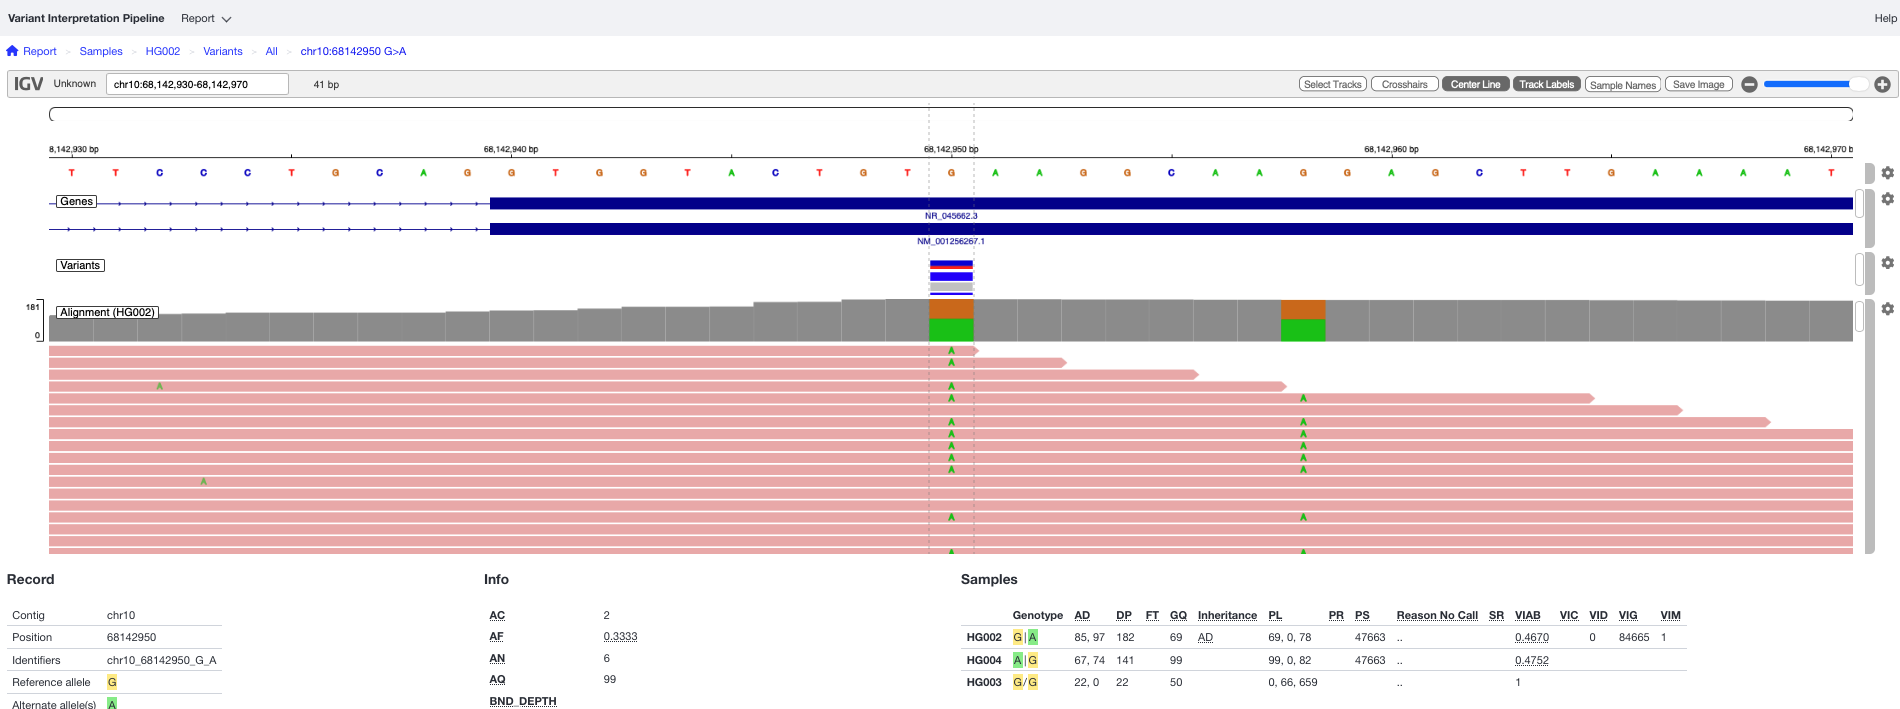
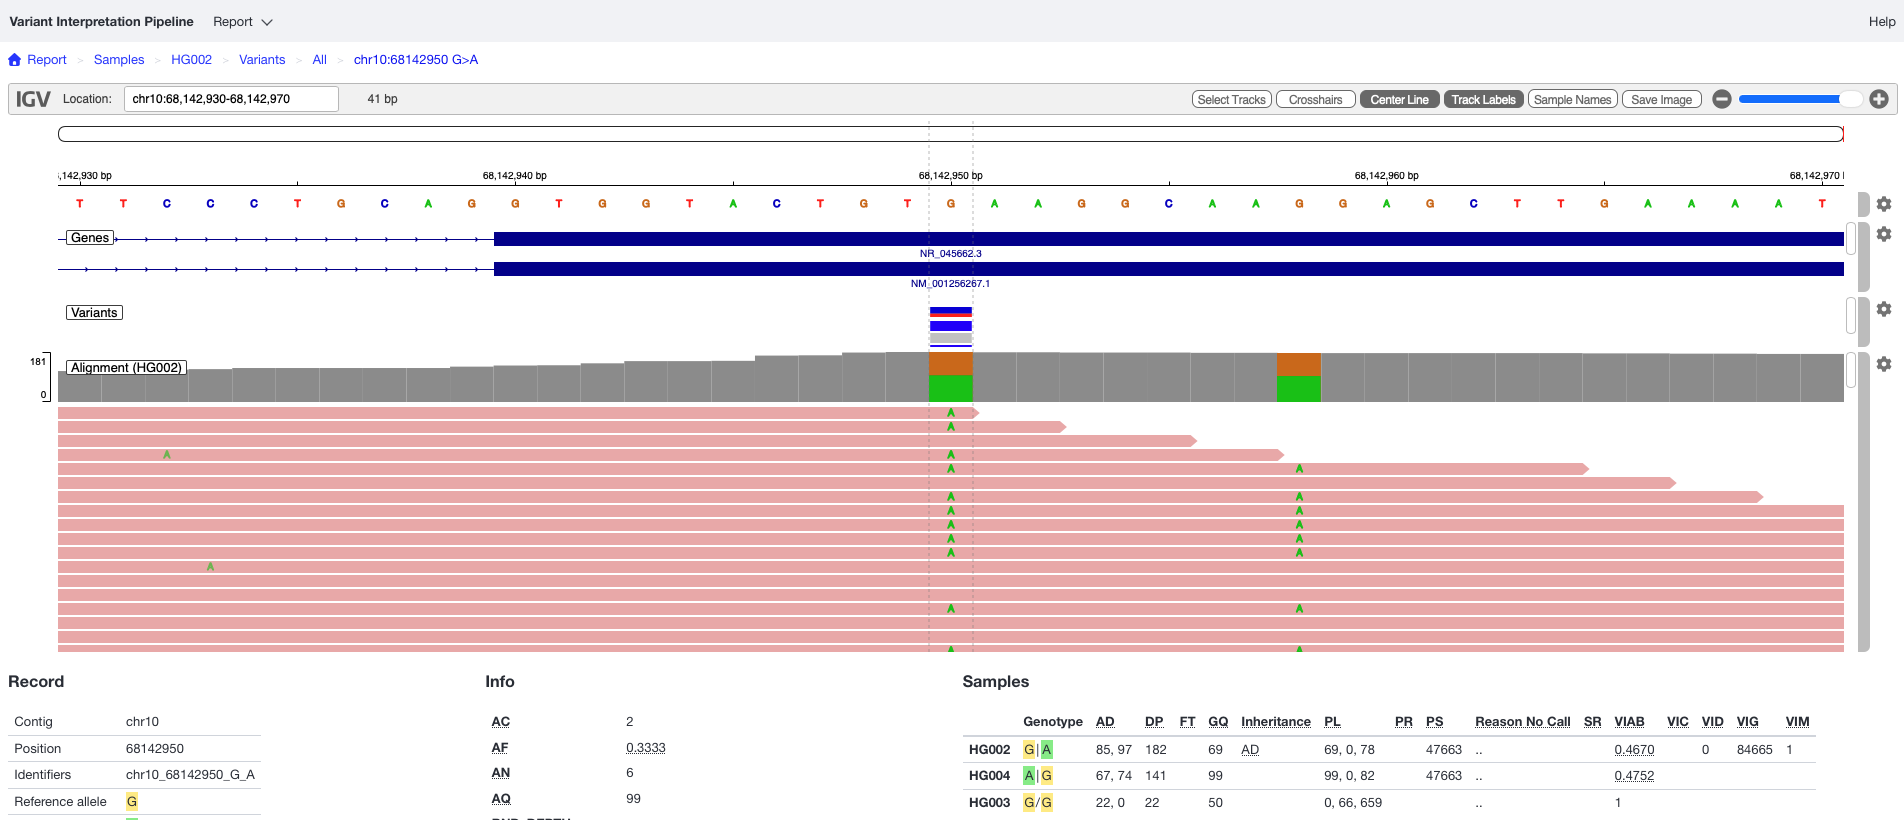
Deploy molgenis/vip to github.com/molgenis/vip.git:gh-pages

diff --git a/about/acknowledgements/index.html b/about/acknowledgements/index.html
@@ -24,7 +24,7 @@
 <script src="https://cdnjs.cloudflare.com/ajax/libs/highlight.js/11.8.0/highlight.min.js"></script>
 <script>hljs.highlightAll();</script>
 <meta name="panzoom-theme" content="readthedocs">
-<meta name="panzoom-data" content='{"selectors": [".d2", ".mermaid"], "initial_zoom_level": 1.0}'> </head>
+<meta name="panzoom-data" content='{"selectors": [".mermaid", ".d2"], "initial_zoom_level": 1.0}'> </head>
 <body class="wy-body-for-nav" role="document">
 <div class="wy-grid-for-nav">
 <nav class="wy-nav-side stickynav" data-toggle="wy-nav-shift">

diff --git a/about/license/index.html b/about/license/index.html
@@ -24,7 +24,7 @@
 <script src="https://cdnjs.cloudflare.com/ajax/libs/highlight.js/11.8.0/highlight.min.js"></script>
 <script>hljs.highlightAll();</script>
 <meta name="panzoom-theme" content="readthedocs">
-<meta name="panzoom-data" content='{"selectors": [".d2", ".mermaid"], "initial_zoom_level": 1.0}'> </head>
+<meta name="panzoom-data" content='{"selectors": [".mermaid", ".d2"], "initial_zoom_level": 1.0}'> </head>
 <body class="wy-body-for-nav" role="document">
 <div class="wy-grid-for-nav">
 <nav class="wy-nav-side stickynav" data-toggle="wy-nav-shift">

diff --git a/advanced/annotations/index.html b/advanced/annotations/index.html
@@ -24,7 +24,7 @@
 <script src="https://cdnjs.cloudflare.com/ajax/libs/highlight.js/11.8.0/highlight.min.js"></script>
 <script>hljs.highlightAll();</script>
 <meta name="panzoom-theme" content="readthedocs">
-<meta name="panzoom-data" content='{"selectors": [".d2", ".mermaid"], "initial_zoom_level": 1.0}'> </head>
+<meta name="panzoom-data" content='{"selectors": [".mermaid", ".d2"], "initial_zoom_level": 1.0}'> </head>
 <body class="wy-body-for-nav" role="document">
 <div class="wy-grid-for-nav">
 <nav class="wy-nav-side stickynav" data-toggle="wy-nav-shift">

diff --git a/advanced/classification_trees/index.html b/advanced/classification_trees/index.html
@@ -24,7 +24,7 @@
 <script src="https://cdnjs.cloudflare.com/ajax/libs/highlight.js/11.8.0/highlight.min.js"></script>
 <script>hljs.highlightAll();</script>
 <meta name="panzoom-theme" content="readthedocs">
-<meta name="panzoom-data" content='{"selectors": [".d2", ".mermaid"], "initial_zoom_level": 1.0}'> </head>
+<meta name="panzoom-data" content='{"selectors": [".mermaid", ".d2"], "initial_zoom_level": 1.0}'> </head>
 <body class="wy-body-for-nav" role="document">
 <div class="wy-grid-for-nav">
 <nav class="wy-nav-side stickynav" data-toggle="wy-nav-shift">

diff --git a/advanced/report_templates/index.html b/advanced/report_templates/index.html
@@ -24,7 +24,7 @@
 <script src="https://cdnjs.cloudflare.com/ajax/libs/highlight.js/11.8.0/highlight.min.js"></script>
 <script>hljs.highlightAll();</script>
 <meta name="panzoom-theme" content="readthedocs">
-<meta name="panzoom-data" content='{"selectors": [".d2", ".mermaid"], "initial_zoom_level": 1.0}'> </head>
+<meta name="panzoom-data" content='{"selectors": [".mermaid", ".d2"], "initial_zoom_level": 1.0}'> </head>
 <body class="wy-body-for-nav" role="document">
 <div class="wy-grid-for-nav">
 <nav class="wy-nav-side stickynav" data-toggle="wy-nav-shift">

diff --git a/examples/multi-project/index.html b/examples/multi-project/index.html
@@ -24,7 +24,7 @@
 <script src="https://cdnjs.cloudflare.com/ajax/libs/highlight.js/11.8.0/highlight.min.js"></script>
 <script>hljs.highlightAll();</script>
 <meta name="panzoom-theme" content="readthedocs">
-<meta name="panzoom-data" content='{"selectors": [".d2", ".mermaid"], "initial_zoom_level": 1.0}'> </head>
+<meta name="panzoom-data" content='{"selectors": [".mermaid", ".d2"], "initial_zoom_level": 1.0}'> </head>
 <body class="wy-body-for-nav" role="document">
 <div class="wy-grid-for-nav">
 <nav class="wy-nav-side stickynav" data-toggle="wy-nav-shift">

diff --git a/examples/nanopore/index.html b/examples/nanopore/index.html
@@ -24,7 +24,7 @@
 <script src="https://cdnjs.cloudflare.com/ajax/libs/highlight.js/11.8.0/highlight.min.js"></script>
 <script>hljs.highlightAll();</script>
 <meta name="panzoom-theme" content="readthedocs">
-<meta name="panzoom-data" content='{"selectors": [".d2", ".mermaid"], "initial_zoom_level": 1.0}'> </head>
+<meta name="panzoom-data" content='{"selectors": [".mermaid", ".d2"], "initial_zoom_level": 1.0}'> </head>
 <body class="wy-body-for-nav" role="document">
 <div class="wy-grid-for-nav">
 <nav class="wy-nav-side stickynav" data-toggle="wy-nav-shift">

diff --git a/examples/reanalysis/index.html b/examples/reanalysis/index.html
@@ -24,7 +24,7 @@
 <script src="https://cdnjs.cloudflare.com/ajax/libs/highlight.js/11.8.0/highlight.min.js"></script>
 <script>hljs.highlightAll();</script>
 <meta name="panzoom-theme" content="readthedocs">
-<meta name="panzoom-data" content='{"selectors": [".d2", ".mermaid"], "initial_zoom_level": 1.0}'> </head>
+<meta name="panzoom-data" content='{"selectors": [".mermaid", ".d2"], "initial_zoom_level": 1.0}'> </head>
 <body class="wy-body-for-nav" role="document">
 <div class="wy-grid-for-nav">
 <nav class="wy-nav-side stickynav" data-toggle="wy-nav-shift">

diff --git a/get_started/installation/index.html b/get_started/installation/index.html
@@ -24,7 +24,7 @@
 <script src="https://cdnjs.cloudflare.com/ajax/libs/highlight.js/11.8.0/highlight.min.js"></script>
 <script>hljs.highlightAll();</script>
 <meta name="panzoom-theme" content="readthedocs">
-<meta name="panzoom-data" content='{"selectors": [".d2", ".mermaid"], "initial_zoom_level": 1.0}'> </head>
+<meta name="panzoom-data" content='{"selectors": [".mermaid", ".d2"], "initial_zoom_level": 1.0}'> </head>
 <body class="wy-body-for-nav" role="document">
 <div class="wy-grid-for-nav">
 <nav class="wy-nav-side stickynav" data-toggle="wy-nav-shift">

diff --git a/get_started/requirements/index.html b/get_started/requirements/index.html
@@ -24,7 +24,7 @@
 <script src="https://cdnjs.cloudflare.com/ajax/libs/highlight.js/11.8.0/highlight.min.js"></script>
 <script>hljs.highlightAll();</script>
 <meta name="panzoom-theme" content="readthedocs">
-<meta name="panzoom-data" content='{"selectors": [".d2", ".mermaid"], "initial_zoom_level": 1.0}'> </head>
+<meta name="panzoom-data" content='{"selectors": [".mermaid", ".d2"], "initial_zoom_level": 1.0}'> </head>
 <body class="wy-body-for-nav" role="document">
 <div class="wy-grid-for-nav">
 <nav class="wy-nav-side stickynav" data-toggle="wy-nav-shift">

diff --git a/get_started/start_running/index.html b/get_started/start_running/index.html
@@ -24,7 +24,7 @@
 <script src="https://cdnjs.cloudflare.com/ajax/libs/highlight.js/11.8.0/highlight.min.js"></script>
 <script>hljs.highlightAll();</script>
 <meta name="panzoom-theme" content="readthedocs">
-<meta name="panzoom-data" content='{"selectors": [".d2", ".mermaid"], "initial_zoom_level": 1.0}'> </head>
+<meta name="panzoom-data" content='{"selectors": [".mermaid", ".d2"], "initial_zoom_level": 1.0}'> </head>
 <body class="wy-body-for-nav" role="document">
 <div class="wy-grid-for-nav">
 <nav class="wy-nav-side stickynav" data-toggle="wy-nav-shift">

diff --git a/help/frequently_asked_questions/index.html b/help/frequently_asked_questions/index.html
@@ -24,7 +24,7 @@
 <script src="https://cdnjs.cloudflare.com/ajax/libs/highlight.js/11.8.0/highlight.min.js"></script>
 <script>hljs.highlightAll();</script>
 <meta name="panzoom-theme" content="readthedocs">
-<meta name="panzoom-data" content='{"selectors": [".d2", ".mermaid"], "initial_zoom_level": 1.0}'> </head>
+<meta name="panzoom-data" content='{"selectors": [".mermaid", ".d2"], "initial_zoom_level": 1.0}'> </head>
 <body class="wy-body-for-nav" role="document">
 <div class="wy-grid-for-nav">
 <nav class="wy-nav-side stickynav" data-toggle="wy-nav-shift">